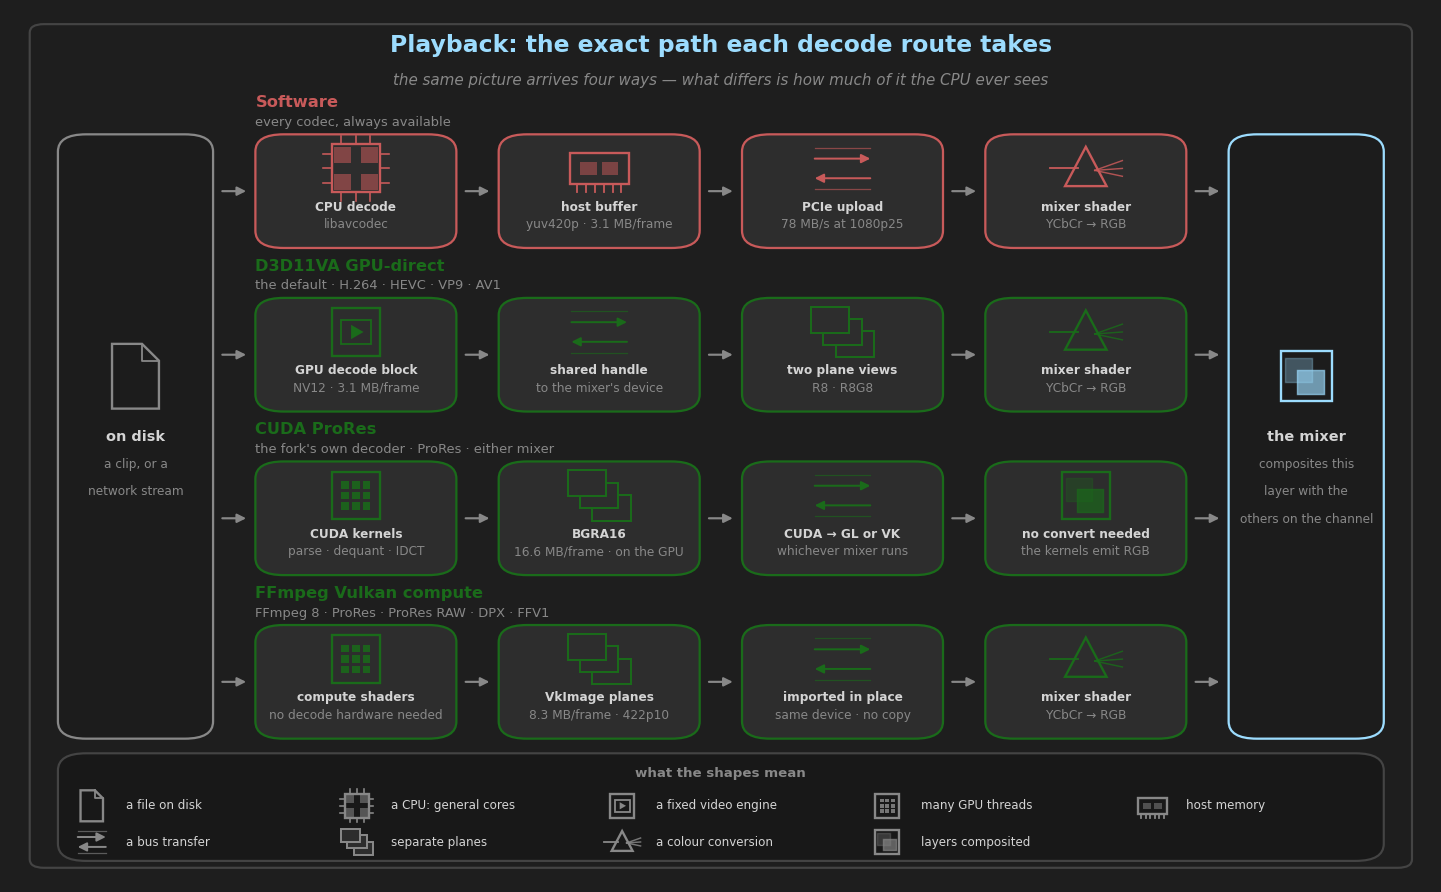
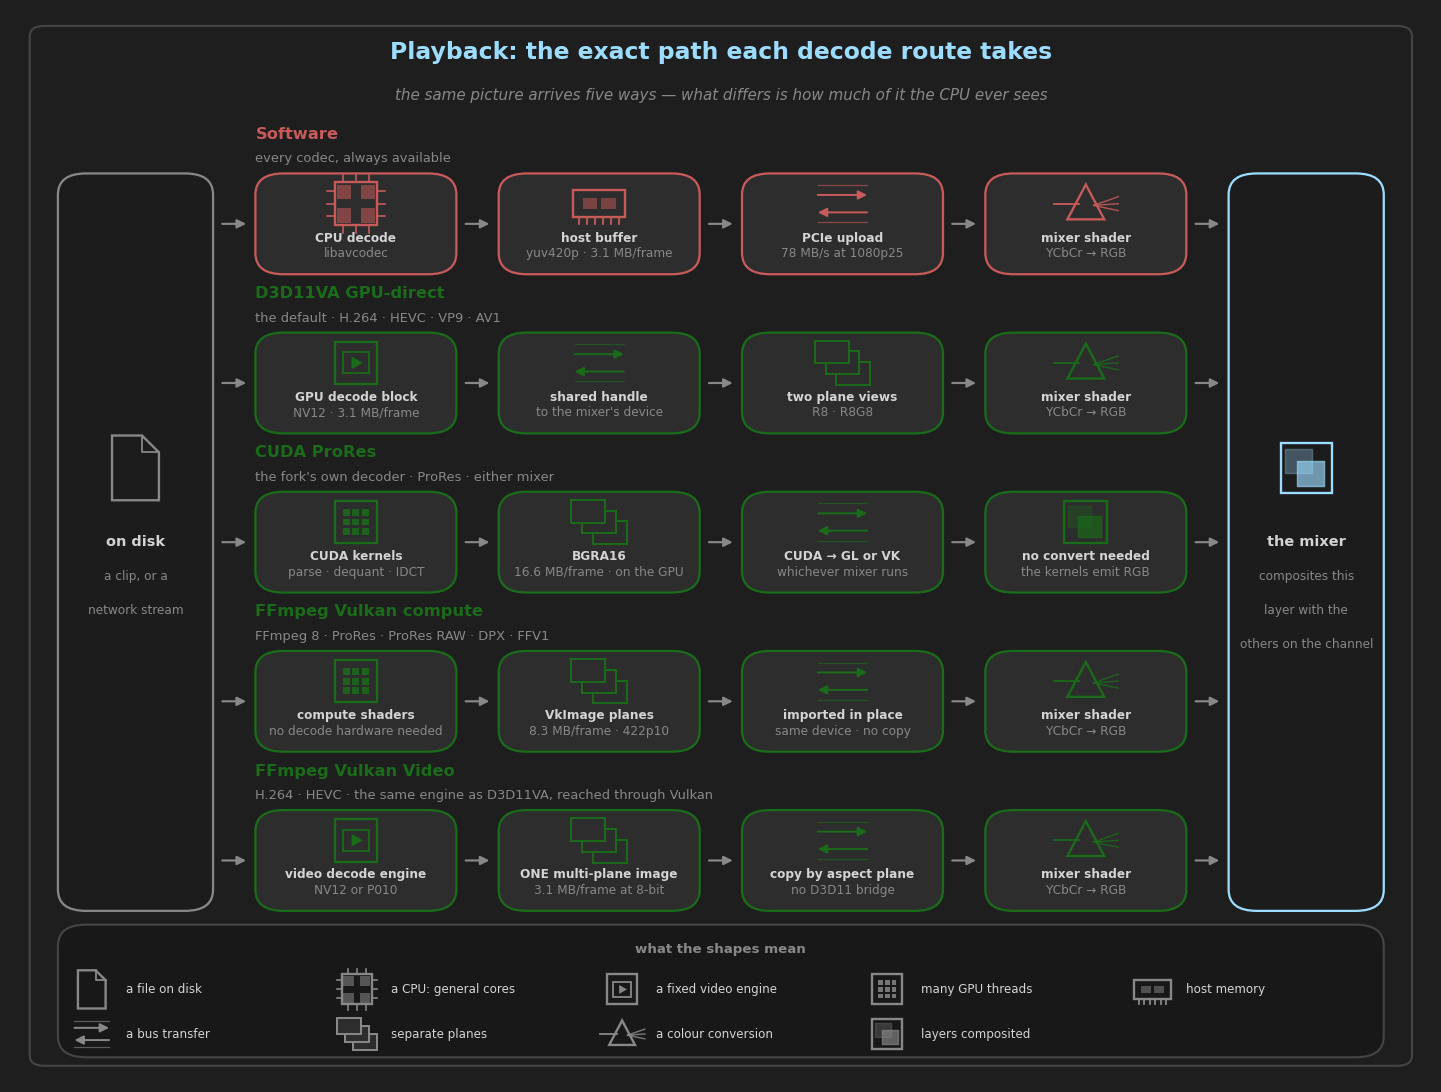
docs(diagrams): a fifth decode route, and the row geometry now comes from the row count
The decode figure drew four routes and the tree has five. Adding a row is not just a list entry:
height and pitch are not independent of how many there are -- a row needs its box plus about 5.5
units above it for the title and the note, and the last row's box has to clear the legend at 14.5.
Four fit at 13.2/19.0; five need 9.5/15.0, both derived from `len(rows)` rather than typed in, so
a sixth route fails visibly instead of drawing over the legend. The figure is taller in inches to
keep the smaller boxes legible: the coordinate space is 0..100 either way, so a taller figure
renders the same units bigger rather than giving more of them.

The shared source and destination blocks now span from the first row to the last by computation
instead of the literal 16.0/70.2 that four rows happened to need.

`recording_host_memory.png` gains the route too, and it needed the type to shrink with the column
rather than only the box: at five columns the box is 8.4 units and "H.264 HEVC VP9 AV1" at 6.3pt
is wider than that. It rendered past both borders, and `fit_text` did not catch it -- it measures
against the parent panel, and this overran within its own line rather than into a sibling. Worth
knowing, because that check is trusted elsewhere.

The same glyph now marks the D3D11VA and Vulkan Video rows' first step, which is correct and the
guide says so: it is the SAME fixed-function engine, and what differs is the API used to reach it
and what happens to the frame afterwards.
[…]

diff --git a/docs/diagrams/generate_recording_diagrams.py b/docs/diagrams/generate_recording_diagrams.py
@@ -377,29 +377,38 @@ def host_memory_routes():
     # decode routes, left half
     lay.text("dec", 26, 84, "DECODE", parent=None, color=TITLE, size=10,
              weight="bold", ha="center")
+    # FIVE now, so the names shorten rather than the boxes overrunning: the left half is
+    # 4..50 whatever it holds, and `fit_text` reports an overrun rather than drawing one.
     decode = [
         ("software", True, "any codec"),
         ("D3D11VA", False, "H.264 HEVC VP9 AV1"),
         ("CUDA ProRes", False, "ProRes"),
-        ("FFmpeg Vulkan", False, "ProRes, RAW, DPX"),
+        ("VK compute", False, "ProRes RAW DPX"),
+        ("VK video", False, "H.264 HEVC"),
     ]
     # THROUGH lay.fit_text, not the raw helper. The first version called `_text` directly
     # inside this loop, which bypasses the overrun check entirely -- and four of the eight
     # labels ran outside their boxes. Using the checked helper is the whole point of having it.
+    # AND THE TYPE SHRINKS WITH THE COLUMN, not just the box. At five columns the box is 8.4
+    # units and "H.264 HEVC VP9 AV1" at 6.3pt is wider than that -- it rendered past both
+    # edges, which `fit_text` did not catch because it measures against the parent panel it is
+    # given and the overrun was in the note's own line rather than into a sibling.
+    dw, dpitch = (10.5, 11.5) if len(decode) <= 4 else (8.4, 9.2)
+    dt_size, dn_size = (7.4, 6.3) if len(decode) <= 4 else (6.6, 5.5)
     for i, (name, crosses, note) in enumerate(decode):
-        x = 4 + i * 11.5
+        x = 4 + i * dpitch
         col = DANGER_T if crosses else SUCCESS
-        lay.panel(f"d{i}", x, 68, 10.5, 12, fc=PANEL, ec=col, lw=1.4)
-        lay.fit_text(None, x + 5.25, 76, name, parent=f"d{i}", size=7.4, color=col,
+        lay.panel(f"d{i}", x, 68, dw, 12, fc=PANEL, ec=col, lw=1.4)
+        lay.fit_text(None, x + dw / 2, 76, name, parent=f"d{i}", size=dt_size, color=col,
                      ha="center", weight="bold")
-        lay.fit_text(None, x + 5.25, 71, note, parent=f"d{i}", size=6.3, color=MUTED,
+        lay.fit_text(None, x + dw / 2, 71, note, parent=f"d{i}", size=dn_size, color=MUTED,
                      ha="center")
         if crosses:
-            lay.arrow((x + 5.25, 68), (x + 5.25, 43), color=DANGER_T, lw=1.6)
-            lay.text(f"dc{i}", x + 5.25, 40, "a copy", parent=None, color=DANGER_T,
+            lay.arrow((x + dw / 2, 68), (x + dw / 2, 43), color=DANGER_T, lw=1.6)
+            lay.text(f"dc{i}", x + dw / 2, 40, "a copy", parent=None, color=DANGER_T,
                      size=6.8, ha="center")
         else:
-            lay.arrow((x + 5.25, 68), (x + 5.25, 56), color=SUCCESS, lw=1.6)
+            lay.arrow((x + dw / 2, 68), (x + dw / 2, 56), color=SUCCESS, lw=1.6)
 
     # encode routes, right half
     lay.text("enc", 74, 84, "ENCODE", parent=None, color=TITLE, size=10,
@@ -886,18 +895,14 @@ def _icon_legend(lay, ax, y, items, rows=2):
 # ─────────────────────────────────────────────────────────────────────────────
 def decode_paths():
     """Section 2's four pipelines, drawn."""
-    lay, fig, ax = _new((14.0, 8.6))
+    lay, fig, ax = _new((14.0, 10.6))
     lay.panel("frame", 1, 1, 98, 98, blocking=False, fc=BG, ec=BORDER_SUBTLE, radius=0.01)
 
     lay.text("title", 50, 96.5, "Playback: the exact path each decode route takes",
              parent=None, color=TITLE, size=13, weight="bold", ha="center")
     lay.text("sub", 50, 92.5,
-             "the same picture arrives four ways — what differs is how much of it the CPU ever sees",
+             "the same picture arrives five ways — what differs is how much of it the CPU ever sees",
              parent=None, color=MUTED, size=8.4, ha="center", style="italic")
-
-    # 14.25 wide: the repeated first column is gone, so four steps and three gaps fill the
-    # 17..83 the two shared blocks leave -- and each box is wider than the five used to be.
-    W, H, GAP = 14.25, 13.2, 3.0
 
     rows = [
         ("Software", DANGER_T, "every codec, always available", [
@@ -927,12 +932,30 @@ def decode_paths():
             ("bus", ("imported in place", "same device · no copy")),
             ("prism", ("mixer shader", "YCbCr → RGB")),
         ]),
+        ("FFmpeg Vulkan Video", SUCCESS,
+         "H.264 · HEVC · the same engine as D3D11VA, reached through Vulkan", [
+            ("fixdec", ("video decode engine", "NV12 or P010")),
+            ("stack", ("ONE multi-plane image", "3.1 MB/frame at 8-bit")),
+            ("bus", ("copy by aspect plane", "no D3D11 bridge")),
+            ("prism", ("mixer shader", "YCbCr → RGB")),
+        ]),
     ]
+
+    # 14.25 wide: the repeated first column is gone, so four steps and three gaps fill the
+    # 17..83 the two shared blocks leave -- and each box is wider than the five used to be.
+    #
+    # HEIGHT AND PITCH COME FROM THE ROW COUNT, and they are not independent: a row needs its
+    # box plus about 5.5 units above it for the title and the note, and the last row's box has
+    # to clear the legend at 14.5. Four rows fit at 13.2/19.0; five need 9.5/15.0, which is why
+    # the figure above is taller in inches -- the coordinate space is 0..100 either way, so a
+    # taller figure renders the same units bigger rather than giving more of them.
+    W, GAP = 14.25, 3.0
+    H, PITCH, TOP = (13.2, 19.0, 73.0) if len(rows) <= 4 else (9.5, 15.0, 75.6)
 
     for r, (name, col, note, steps) in enumerate(rows):
         # 73, and the note 1.3 above the box: at 0.8 the note's descenders touched the panel's
         # rounded top border, which reads as a strike-through across the line.
-        y = 73 - r * 19.0
+        y = TOP - r * PITCH
         # x=17, over the first step that actually DISTINGUISHES the route. At x=3 the title sat
         # above the shared source block, labelling a column common to all four rows.
         lay.text(f"rn{r}", 17, y + H + 3.7, name, parent=None, color=col, size=9,
@@ -945,11 +968,11 @@ def decode_paths():
                 lay.arrow((x - GAP + 0.4, y + H / 2), (x - 0.4, y + H / 2),
                           color=MUTED, lw=1.2)
 
-    mids = [73 - r * 19.0 + H / 2 for r in range(4)]
-    _shared(lay, ax, "src", 3.0, 16.0, 11.0, 70.2, "file",
+    mids = [TOP - r * PITCH + H / 2 for r in range(len(rows))]
+    _shared(lay, ax, "src", 3.0, mids[-1] - H / 2, 11.0, mids[0] - mids[-1] + H, "file",
             ("on disk", "a clip, or a", "network stream"),
             col=MUTED, rows_y=mids, out=True)
-    _shared(lay, ax, "term", 86.0, 16.0, 11.0, 70.2, "mixer",
+    _shared(lay, ax, "term", 86.0, mids[-1] - H / 2, 11.0, mids[0] - mids[-1] + H, "mixer",
             ("the mixer", "composites this", "layer with the", "others on the channel"),
             col=TITLE, rows_y=mids, out=False)
 

diff --git a/docs/PLAYBACK_AND_RECORDING_GUIDE.md b/docs/PLAYBACK_AND_RECORDING_GUIDE.md
@@ -14,7 +14,7 @@ Vulkan when it needed OpenGL. The server always says so in its log. §7 is how t
 ## Contents
 
 1. [Three different "how many" questions](#1-three-different-how-many-questions)
-2. [Playback: the four decode routes](#2-playback-the-four-decode-routes)
+2. [Playback: the decode routes](#2-playback-the-decode-routes)
 3. [Recording: the four encode routes](#3-recording-the-four-encode-routes)
 4. [Commands you can paste](#4-commands-you-can-paste)
 5. [Why the pictures differ](#5-why-the-pictures-differ)
@@ -51,7 +51,7 @@ one channel is not necessarily the one that reaches furthest.
 
 ![Which decode and encode routes touch host memory, and which never leave the GPU](images/recording_host_memory.png)
 
-## 2. Playback: the four decode routes
+## 2. Playback: the decode routes
 
 ### At a glance
 
@@ -72,10 +72,14 @@ Folding them together would let a fault in one switch off the other.
 
 ### The exact path each one takes
 
-![The four FFmpeg decode routes as pipelines, step by step](images/recording_decode_paths.png)
+![The FFmpeg decode routes as pipelines, step by step](images/recording_decode_paths.png)
 
-The diagram covers the four FFmpeg routes; GStreamer has its own guide. The blocks below are the
+The diagram covers the five FFmpeg routes; GStreamer has its own guide. The blocks below are the
 same paths with the exact formats and the reasons each restriction exists.
+
+Note that the **same glyph** marks the second and fifth rows' first step. That is not an
+oversight: D3D11VA and Vulkan Video drive the *same* fixed-function video engine, and what differs
+is the API used to reach it and what happens to the frame afterwards.
 
 **Software.** The safe path, and the only one that handles every codec.
 
